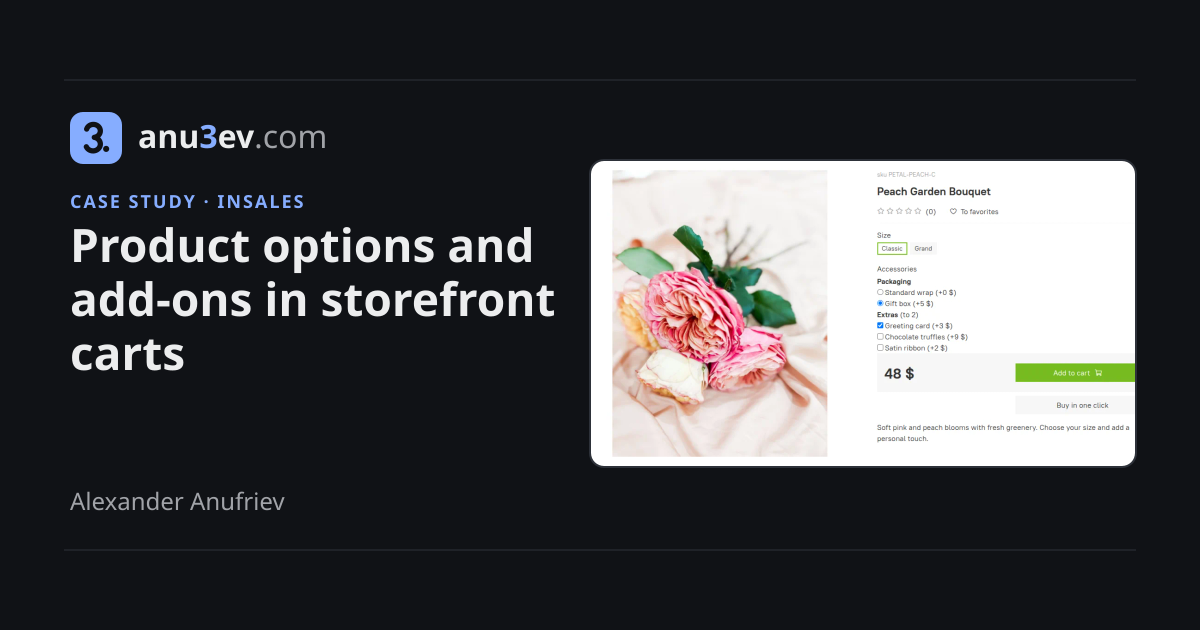
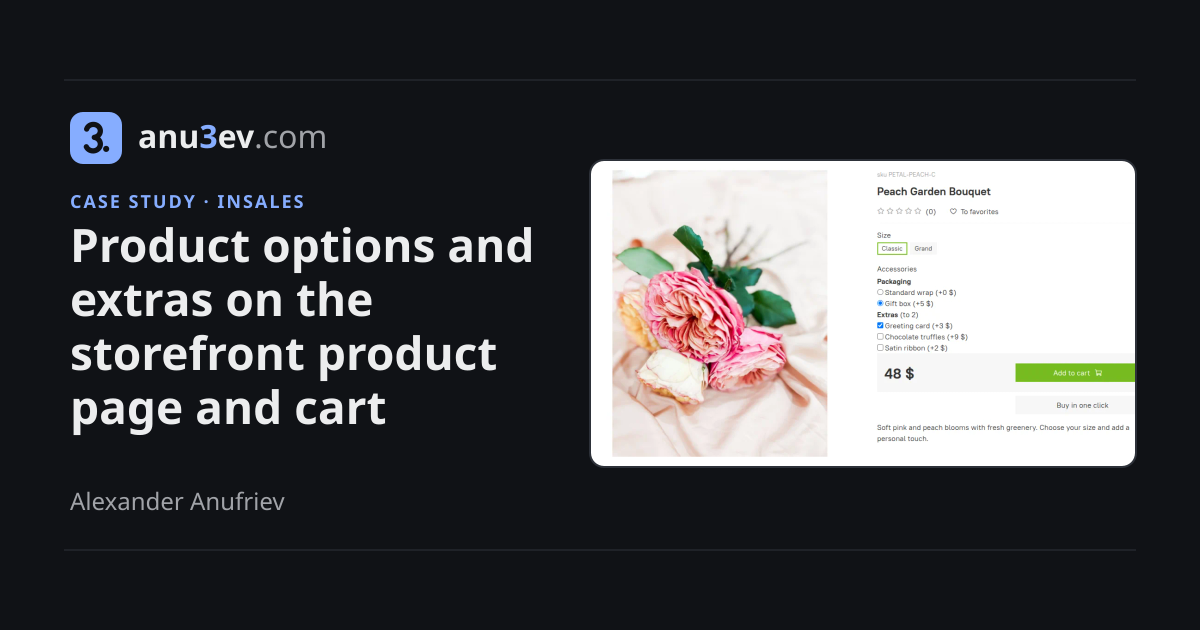
Product options case rebuilt from the project note; release 1.8.12

Changed region(s): [[0.0617, 0.4524, 0.4625, 0.6937]]

diff --git a/content/ru/projects/product-options.md b/content/ru/projects/product-options.md
@@ -1,63 +1,75 @@
 ---
 title: Товарные опции и дополнительные услуги в корзине витрины
-description: "Сделал товарные опции в библиотеке витрин inSales: компонент выбора, пересчёт цены и операции корзины. Один и тот же вариант с разными дополнениями лежит в корзине отдельными позициями."
+description: "Добавил поддержку товарных опций в карточку товара и корзину витрин inSales: компонент выбора, пересчёт цены и операции корзины. Один и тот же вариант с разными дополнениями присутствует в корзине отдельными позициями, и каждая доходит до оформления заказа со своими опциями."
 locale: ru
 slug: product-options
 published: true
 cover: /images/work/product-options/product-page-gift-box-and-card.webp
 coverAlt: "Карточка букета в демо-магазине: выбраны размер Classic, подарочная коробка и открытка, цена пересчитана до 48 долларов"
 category: Платформа витрин
-year: Январь – апрель 2025
+year: Октябрь 2023 – январь 2024
 context: inSales
-role: "Frontend-разработчик: компонент ui-accessories, цены, API корзины, документация"
-stack: [JavaScript, API Development, AJAX, Front-End Development, E-Commerce, Technical Documentation, HTML5, CSS, Debugging]
+role: "Frontend в библиотеке витрин: компонент ui-accessories, цены, API корзины, выкатка, документация"
+stack: [JavaScript, Liquid, AJAX]
 featured: false
 order: 10
 ---
 
 ## Задача
 
-Магазины хотели продавать вместе с товаром дополнения и услуги: подарочную упаковку, открытку, ленту. Одни опции обязательны, другие нет, и у каждой группы свои ограничения. Итоговую цену покупатель должен видеть ещё до того, как положит товар в корзину.
+Магазины хотели продавать вместе с товаром дополнения и услуги: подарочную упаковку, открытку, ленту. Одни опции обязательны, другие нет, и у каждой группы свои ограничения. Итоговую цену покупатель должен видеть ещё до того, как добавит товар в корзину.
 
-Самое сложное было в корзине. Общая библиотека витрин CommonJS считала позицию корзины вариантом товара. С опциями это перестало быть правдой: букет Classic в обычной упаковке и тот же букет в подарочной коробке с открыткой — две разные покупки с разной ценой. Любое место, которое искало товар в корзине по ID варианта, теперь могло попасть не в ту позицию: изменение количества, удаление, счётчики на карточке и проверка остатков.
+Самое сложное было в корзине. Собственная JavaScript-библиотека витрин inSales, CommonJS, считала позицию корзины вариантом товара, например размером букета. С опциями это уже не так: букет Classic в обычной упаковке и тот же букет в подарочной коробке с открыткой образуют две разные позиции с разной ценой. Код, который находил позицию корзины по ID варианта, мог изменить или удалить не ту позицию, а счётчики на карточке и проверка остатков могли показать не те числа.
 
 ## Моя роль
 
-Я делал часть на витрине, в CommonJS: компонент `ui-accessories`, пересчёт цены, операции корзины, вывод опций в корзине и документацию для разработчиков магазинов. Метод корзины, который принимает выбранные опции, сделали бэкенд-разработчики. Мой код проходил ревью и QA.
+Я делал часть на витрине, в CommonJS: компонент `ui-accessories`, пересчёт цены, операции корзины, вывод опций в корзине и на оформлении заказа, выкатку и документацию для разработчиков магазинов. Серверную часть опций делал бэкенд-разработчик, а формат данных между витриной и сервером мы согласовали вместе. Работа шла с октября по декабрь 2023 года, параллельно с [мультикорзинами](/ru/work/multi-warehouse-carts/).
 
 ## Что я сделал
 
-### Один компонент для обязательных и необязательных групп
+### Опции отрисовываются в любом виджете, а ошибки видны под каждой группой
 
-`ui-accessories` подключается через `data-accessories="{{ product.id }}"` и рендерит группы опций по шаблонам из разметки, поэтому работает и в стандартных виджетах, и в собственном дизайне магазина. У каждой группы есть минимальное и максимальное количество. В демо-магазине упаковку выбирают обязательно и только одну, а дополнений можно взять до двух. Я сделал рендер опций по data-атрибутам, а не привязал его к странице товара: тот же рендер был нужен AJAX-товарам, а чтобы добавить товар с обязательными опциями из превью в категории, данные опций тоже нужны.
+`ui-accessories` подключается через `data-accessories="{{ product.id }}"` и отрисовывает группы опций по шаблонам из разметки, поэтому работает и в стандартных виджетах, и в собственном дизайне магазина. У каждой группы есть минимальное и максимальное количество значений. В демо-магазине упаковку выбирают обязательно и только одну, а дополнений можно взять до двух. Отрисовку опций я сделал по data-атрибутам, а не привязал к странице товара, потому что опции нужны и в товарах, которые загружаются на страницу отдельным запросом, и в превью товара в категории, откуда тоже можно добавить товар в корзину.
+
+Максимум можно ограничить, заблокировав лишние чекбоксы, а заставить покупателя выбрать значение нельзя, поэтому при недоборе значений сервер возвращает ошибку. Сначала обсуждали вариант показывать её во всплывающем уведомлении, но если у товара много опций и ни одна не выбрана, уведомление заняло бы весь экран. Поэтому я вывел ошибку текстом под каждой группой опций, а при нехватке выбранных значений страница прокручивается к первой группе с ошибкой.
 
 ### Цена зависит от варианта и опций
 
-Цена пересчитывается, когда покупатель меняет вариант или набор опций. В демо-магазине подарочная коробка (+$5) и открытка (+$3) поднимают цену букета Classic с $40 до $48, а те же дополнения для размера Grand — с $60 до $68. Ноль в проверках цены нельзя было считать отсутствием значения: вариант вполне может стоить 0, а обычная упаковка добавляет $0.
+Цена пересчитывается, когда покупатель меняет вариант или набор опций. В демо-магазине подарочная коробка (+$5) и открытка (+$3) поднимают цену букета Classic с $40 до $48, а те же дополнения для размера Grand с $60 до $68. Ноль в проверках цены нельзя было считать отсутствием значения: вариант может стоить 0, а обычная упаковка добавляет $0.
 
-### Позиция корзины — это вариант вместе с опциями
+![Карточка букета в демо-магазине: выбраны размер Classic, подарочная коробка и открытка, цена пересчитана до $48](/images/work/product-options/product-page-gift-box-and-card.webp)
 
-Я доработал `Cart.add`, `Cart.set`, `Cart.delete` и очередь задач корзины, чтобы вместе с ID варианта они передавали `accessory_value_ids`, сгруппированные в `accessoriable_variant_ids`. Изменение количества и удаление теперь касаются одной конкретной комбинации, а не всех позиций с этим вариантом. В виджете корзины у каждой позиции видны названия выбранных опций и их цены.
+### Позиция корзины объединяет вариант и опции
 
-![Корзина, где один вариант букета лежит двумя позициями: в обычной упаковке и в подарочной коробке с открыткой](/images/work/product-options/cart-same-variant-two-lines.webp)
-*Демо-магазин: один вариант Classic, две позиции со своими опциями, количеством и ценой.*
+Бэкенд-разработчик предложил два формата данных: новую структуру `accessoriable_variant_ids`, где для каждого варианта передаётся список позиций с ID выбранных опций, или формат, который уже использовал другой метод корзины. Я выбрал первый: его проще обрабатывать на сервере, и он отправляется в тот же запрос к корзине вместе с прежним списком вариантов. В тот же день выяснилось, что серверный фреймворк Rails не разбирает массив ID в параметрах запроса, поэтому ID опций мы стали передавать объектом вида «ID опции: количество». В таком формате позже можно передавать и количество каждой опции.
 
-### Счётчики и остатки для разных комбинаций
+Я доработал `Cart.add`, `Cart.set`, `Cart.delete` и очередь задач корзины, чтобы вместе с ID варианта они передавали выбранные опции. Изменение количества и удаление теперь касаются одной конкретной комбинации, а не всех позиций с этим вариантом. В виджете корзины у каждой позиции видны названия выбранных опций.
 
-Раньше на два вопроса был один ответ, теперь ответы разошлись. Счётчик на карточке и кнопка «В корзину» следуют за выбранной комбинацией. Если переключиться с обычной упаковки на подарочную, счётчик меняется, а после удаления обычной позиции снова появляется кнопка добавления, хотя подарочная остаётся в корзине. Остаток же относится к варианту: позиции с разными опциями — это всё равно единицы одного товара, поэтому при проверке их количество складывается. Я прошёл по местам, где товар в корзине искали по ID варианта, и в каждом месте развёл эти два вопроса. В виджете уведомлений появилась отдельная ошибка про неверное количество выбранных опций.
+Каждую сборку бэкенда я проверял на стейджинге и находил ошибки до релиза: например, товар без опций добавлялся в ту же позицию, что и товар с опциями.
+
+![Корзина, где один вариант букета присутствует двумя позициями: в обычной упаковке и в подарочной коробке с открыткой](/images/work/product-options/cart-same-variant-two-lines.webp)
+
+### Счётчик показывает позицию, а остаток считается по варианту
+
+Счётчик на карточке и кнопка «В корзину» показывают количество выбранной позиции. Если переключиться с обычной упаковки на подарочную, счётчик меняется, а после удаления обычной позиции снова появляется кнопка добавления, хотя подарочная остаётся в корзине. Остаток же относится к варианту: позиции с разными опциями всё равно являются единицами одного товара, поэтому при проверке их количество складывается. Я прошёл по местам, где позицию корзины находили по ID варианта, и в каждом из них развёл счётчик позиции и остаток варианта.
 
 ![Корзина с 7 единицами в обычной упаковке и 9 в подарочной и предупреждением о максимальном количестве](/images/work/product-options/cart-combined-quantity-limit.webp)
-*Демо-магазин: 7 + 9 единиц одного варианта в двух позициях. При попытке добавить ещё появляется предупреждение о лимите.*
 
-### Совместимость и документация
+### Позиции с опциями доходят до оформления заказа
 
-Опции должны были работать в виджете карточки товара, AJAX-товарах, превью в категориях, модальных окнах, мультикорзинах и старых шаблонах. Я составил чек-лист проверки: добавление, изменение количества и удаление обычных товаров, товаров с [мультискладом](/ru/work/multi-warehouse-carts/) и товаров с опциями во всех этих местах, а также пересчёт цены при смене варианта и опций. Ещё я описал API опций для разработчиков, которые собирают карточки и корзины в собственных шаблонах.
+В декабре 2023 года я заметил, что три позиции одного товара с разными опциями попадают на страницу оформления заказа одной строкой. Форма корзины отправляла на оформление только ID вариантов и количество, без опций. Отказаться от этих полей было нельзя, потому что на них в CommonJS и во всех виджетах корзины завязаны изменение количества, удаление и пересчёт цен. Поэтому я сделал так, что при нажатии «Оформить заказ» библиотека проверяет, есть ли в форме опции, добавляет поля для них и нумерует каждую позицию корзины. Добавлять эти поля прямо в код виджета я не стал, потому что номера в разметке и в JavaScript могли разойтись.
+
+### Опции включали постепенно, через фича-флаг
+
+Я составил чек-лист проверки: добавление, изменение количества и удаление обычных товаров, товаров с мультискладом и товаров с опциями в виджете карточки, в товарах, загруженных отдельным запросом, в превью в категориях, модальных окнах и старых шаблонах, а также пересчёт цены при смене варианта и опций.
+
+26 декабря 2023 года я за один день перенёс поддержку опций во все виджеты карточки товара и корзины. Порядок выкатки был такой: сначала бэкенд, затем CommonJS, после этого виджеты. Сначала клиентам опции были доступны только через фича-флаг, а для технической поддержки я подготовил анонс. Флаг убрали 17 января 2024 года, после того как была готова документация. API опций для разработчиков, которые собирают карточки и корзины в собственных шаблонах, я описал сам.
 
 ## Результат
 
-- Покупатель выбирает обязательные и дополнительные опции, сразу видит итоговую цену и кладёт в корзину именно эту комбинацию.
-- Один вариант может лежать в корзине несколькими позициями, а изменение количества и удаление касаются только выбранной.
-- У разработчиков магазинов появились компонент и задокументированный API корзины для опций в собственных шаблонах.
-- Опции работают в товарных виджетах и AJAX-товарах. Про библиотеку, в которую всё это встроено, — [кейс о CommonJS](/ru/work/commonjs-storefront-library/).
+- С 17 января 2024 года опции доступны во всех магазинах, и в шаблонах последнего поколения они поддерживались по умолчанию.
+- Покупатель выбирает обязательные и дополнительные опции, сразу видит итоговую цену и добавляет в корзину именно эту позицию.
+- Один вариант может присутствовать в корзине в виде нескольких позиций: изменение количества и удаление касаются только выбранной, и каждая позиция доходит до оформления заказа со своими опциями.
+- У разработчиков магазинов появились компонент и задокументированный API корзины для опций в собственных шаблонах. О библиотеке, в которую всё это встроено, рассказано в [кейсе о CommonJS](/ru/work/commonjs-storefront-library/).
 
 Скриншоты сделаны в демо-магазине inSales на фотографиях со свободной лицензией. Товары и цены придуманы для примера и не связаны с реальными продажами.

diff --git a/content/en/projects/product-options.md b/content/en/projects/product-options.md
@@ -1,63 +1,75 @@
 ---
-title: Product options and add-ons in storefront carts
-description: I built product options for the inSales storefront library, from the selection component and pricing to cart operations, so shoppers can buy the same variant with different extras as separate cart lines.
+title: Product options and extras on the storefront product page and cart
+description: "I added product options to the inSales storefront product page and cart: the selection component, price recalculation and cart operations. The same variant with different extras becomes separate cart lines, and each line reaches checkout with its own options."
 locale: en
 slug: product-options
 published: true
 cover: /images/work/product-options/product-page-gift-box-and-card.webp
-coverAlt: Demo-store product page for a bouquet with Classic size, gift box and greeting card selected and the price updated to 48 dollars
+coverAlt: Demo-store product page for a bouquet with Classic size, gift box and greeting card selected and the price updated to $48
 category: Storefront platform
-year: Jan 2025 – Apr 2025
+year: Oct 2023 – Jan 2024
 context: inSales
-role: "Frontend developer: ui-accessories component, pricing, cart API, developer docs"
-stack: [JavaScript, API Development, AJAX, Front-End Development, E-Commerce, Technical Documentation, HTML5, CSS, Debugging]
+role: "Frontend in the storefront library: ui-accessories, price recalculation, cart API, rollout, docs"
+stack: [JavaScript, Liquid, AJAX]
 featured: false
 order: 10
 ---
 
 ## The problem
 
-Merchants wanted to sell extras and services with a product: gift packaging, a greeting card, a ribbon. Some choices are required, some optional, and each group has its own limits. Shoppers need to see the final price before they add the item to the cart.
+Merchants wanted to sell extras and services with a product: gift packaging, a greeting card, a ribbon. Some options are required and some optional, and each group has its own limits. Buyers need to see the final price before they add the product to the cart.
 
-The hard part was the cart. The shared storefront library, CommonJS, treated a cart line as a product variant. With add-ons that stopped being true: a Classic bouquet in standard wrap and the same bouquet in a gift box with a card are two different purchases with different prices. Every place that found a cart item by variant ID could now hit the wrong line: quantity changes, deletion, counters on the product page and availability checks.
+The hardest part was the cart. CommonJS, the storefront JavaScript library inSales wrote itself, treated a cart line as a product variant, for example a bouquet size. With options that’s no longer true: a Classic bouquet in standard wrapping and the same bouquet in a gift box with a card are two different cart lines with different prices. Code that found a cart line by variant ID could change or delete the wrong line, and the counters on the product page and the stock check could show the wrong numbers.
 
 ## My role
 
-I built the storefront side in CommonJS: the `ui-accessories` component, pricing, cart operations, how options appear in the cart, and documentation for store developers. Backend developers provided the cart endpoint that accepts option values. My code went through review and QA.
+I built the storefront side in CommonJS: the `ui-accessories` component, price recalculation, cart operations, showing options in the cart and at checkout, the rollout and documentation for store developers. A backend developer built the server side of options, and we agreed on the data format between the storefront and the server together. The work ran from October to December 2023, alongside [multi-warehouse carts](/work/multi-warehouse-carts/).
 
 ## What I built
 
-### One component for required and optional groups
+### Options render in any widget, and errors show under each group
 
-`ui-accessories` attaches through `data-accessories="{{ product.id }}"` and renders option groups from markup templates, so it works in standard widgets and in custom designs. Each group carries its minimum and maximum count. In the demo store, packaging is a required single choice and extras allow up to two. I chose to render options from data attributes instead of tying them to the product page: AJAX-loaded products needed the same rendering, and adding a product with required options from a category preview needs the option data too.
+`ui-accessories` connects through `data-accessories="{{ product.id }}"` and renders option groups from HTML templates in the page markup, so it works both in standard widgets and in a store’s own design. Each group has a minimum and maximum number of values. In the demo store, the buyer must choose exactly one type of wrapping and can add up to two extras. I made the rendering work from data attributes instead of tying it to the product page, because options are also needed in products loaded onto the page with a separate request and in product previews on category pages, where a product can also be added to the cart.
 
-### Price follows the variant and the add-ons
+The maximum can be enforced by disabling extra checkboxes, but a buyer can’t be forced to choose a value, so when too few values are chosen, the server returns an error. We first discussed showing it in a pop-up notification, but if a product has many options and none are chosen, the notification could cover the whole screen. So I showed the error as text under each option group, and when values are missing, the page scrolls to the first group with an error.
 
-The displayed price recalculates when the shopper changes either the variant or the options. In the demo store, a gift box (+$5) and a greeting card (+$3) take the Classic bouquet from $40 to $48, and the same extras take Grand from $60 to $68. The price checks couldn’t treat zero as "no value": a variant can legitimately cost nothing, and standard wrap adds $0.
+### The price depends on the variant and the options
 
-### A cart line is a variant plus its options
+The price is recalculated when the buyer changes the variant or the set of options. In the demo store, a gift box (+$5) and a card (+$3) raise the Classic bouquet from $40 to $48, and the same extras raise the Grand size from $60 to $68. The price code had to treat 0 as a real price, not as "no price": a variant can cost 0, and standard wrapping adds $0.
 
-I extended `Cart.add`, `Cart.set`, `Cart.delete` and the cart’s task queue to carry `accessory_value_ids` together with the variant ID, grouped under `accessoriable_variant_ids`. A quantity change or deletion now targets one exact combination, not every line with that variant. The cart widget shows the selected option names and their prices on each line.
+![Demo-store product page for a bouquet with Classic size, gift box and greeting card selected and the price updated to $48](/images/work/product-options/product-page-gift-box-and-card.webp)
+
+### A cart line combines the variant and its options
+
+The backend developer suggested two data formats: a new `accessoriable_variant_ids` structure that lists, for each variant, the cart lines with the IDs of the chosen options, or the format another cart method already used. I chose the first: it’s easier to handle on the server, and it goes in the same cart request as the existing variant list. On the day we agreed on the format, we found that Rails, the server framework, doesn’t parse an array of IDs in request parameters, so we started sending option IDs as an object with each option’s quantity. This also leaves room to choose an option more than once later.
+
+I updated `Cart.add`, `Cart.set`, `Cart.delete` and the cart task queue to send the chosen options together with the variant ID. Quantity changes and deletion now apply to one specific combination, not to every line with that variant. In the cart widget, each line shows the names of its chosen options.
+
+I tested every backend build on staging and found bugs before the release: for example, a product without options was added to the same cart line as the same product with options.
 
 ![Cart with the same bouquet variant as two lines: standard wrap, and gift box with greeting card](/images/work/product-options/cart-same-variant-two-lines.webp)
-*Demo store: one Classic variant, two cart lines with their own options, quantities and prices.*
 
-### Counters and availability across combinations
+### The counter follows the cart line, and stock is counted per variant
 
-Two questions that used to have one answer now needed different ones. The product page counter and the "Add to cart" button follow the selected combination. Switching from standard wrap to the gift configuration changes the counter, and deleting the standard line brings back "Add to cart" while the gift line stays in the cart. Availability belongs to the variant: lines with different options are still units of the same product, so the check adds up their quantities. I went through the places that looked up cart items by variant ID and made each one ask the right question. The notification widget also got its own error for a wrong number of selected options.
+The counter on the product page and the "Add to cart" button show the quantity of the selected cart line. If the buyer switches from standard wrapping to the gift box, the counter shows the quantity of the gift-box line, and after the standard-wrapping line is deleted, the "Add to cart" button appears again even though the gift-box line is still in the cart. Stock, on the other hand, belongs to the variant: lines with different options are still units of the same product, so their quantities are added up for the check. I went through the places where a cart line was found by variant ID and separated the line counter from the variant stock in each of them.
 
 ![Cart with 7 standard and 9 gift units of one variant and a maximum quantity warning](/images/work/product-options/cart-combined-quantity-limit.webp)
-*Demo store: 7 + 9 units of the same variant in two lines; adding more shows the limit warning.*
 
-### Compatibility and documentation
+### Lines with options reach checkout
 
-Options had to work in the product widget, AJAX products, category previews, modals, [multi-warehouse carts](/work/multi-warehouse-carts/) and older templates. I wrote the test checklist for adding, changing and deleting regular products, multi-warehouse products and products with options in each of those places, plus price changes when switching variants and options. I also documented the options API for store developers who build product cards and carts in their own templates.
+In December 2023 I noticed that three lines of one product with different options reached the checkout page as a single line. The cart form sent only variant IDs and quantities to checkout, without the options. These fields couldn’t be dropped, because quantity changes, deletion and price recalculation in CommonJS and in every cart widget depend on them. So when the buyer clicks "Checkout", the library checks whether the form has options, adds fields for them and numbers each cart line. I didn’t add these fields directly to the widget code, because the numbers in the markup and in JavaScript could get out of sync.
+
+### Options were turned on gradually, behind a feature flag
+
+I wrote a test checklist: adding, changing the quantity and deleting regular products, multi-warehouse products and products with options in the product page widget, in products loaded with a separate request, in product previews on category pages, modal windows and old templates, plus price recalculation when the variant and options change.
+
+On 26 December 2023 I ported options support to every product page and cart widget. The release order was: backend first, then CommonJS, then the widgets. At first only merchants with the feature flag turned on had options, and I prepared an announcement for the support team. The flag was removed on 17 January 2024, after the documentation was ready. I described the options API myself for developers who build product pages and carts in their own templates.
 
 ## Results
 
-- Shoppers can choose required and optional add-ons, see the final price and add that exact combination to the cart.
-- The same variant can sit in the cart as separate lines; quantity changes and deletion affect only the chosen line.
-- Store developers got a component and a documented cart API for options in their own templates.
-- Options work in product widgets and AJAX-loaded products. The library this was built into is described in [the CommonJS case](/work/commonjs-storefront-library/).
+- Since 17 January 2024, options have been available in every store, and latest-generation templates support them by default.
+- Buyers choose required and optional extras, see the final price right away and add exactly that combination to the cart.
+- One variant can be in the cart as several lines: quantity changes and deletion apply only to the chosen line, and each line reaches checkout with its own options.
+- Store developers got a component and a documented cart API for options in their own templates. The library all this is built into is described in the [CommonJS case](/work/commonjs-storefront-library/).
 
-The screenshots come from an inSales demo store with licensed stock photos. Products and prices are made up for the demo; they are not sales data.
+Screenshots were taken in an inSales demo store with freely licensed photos. The products and prices are made up for the example and aren’t linked to real sales.
